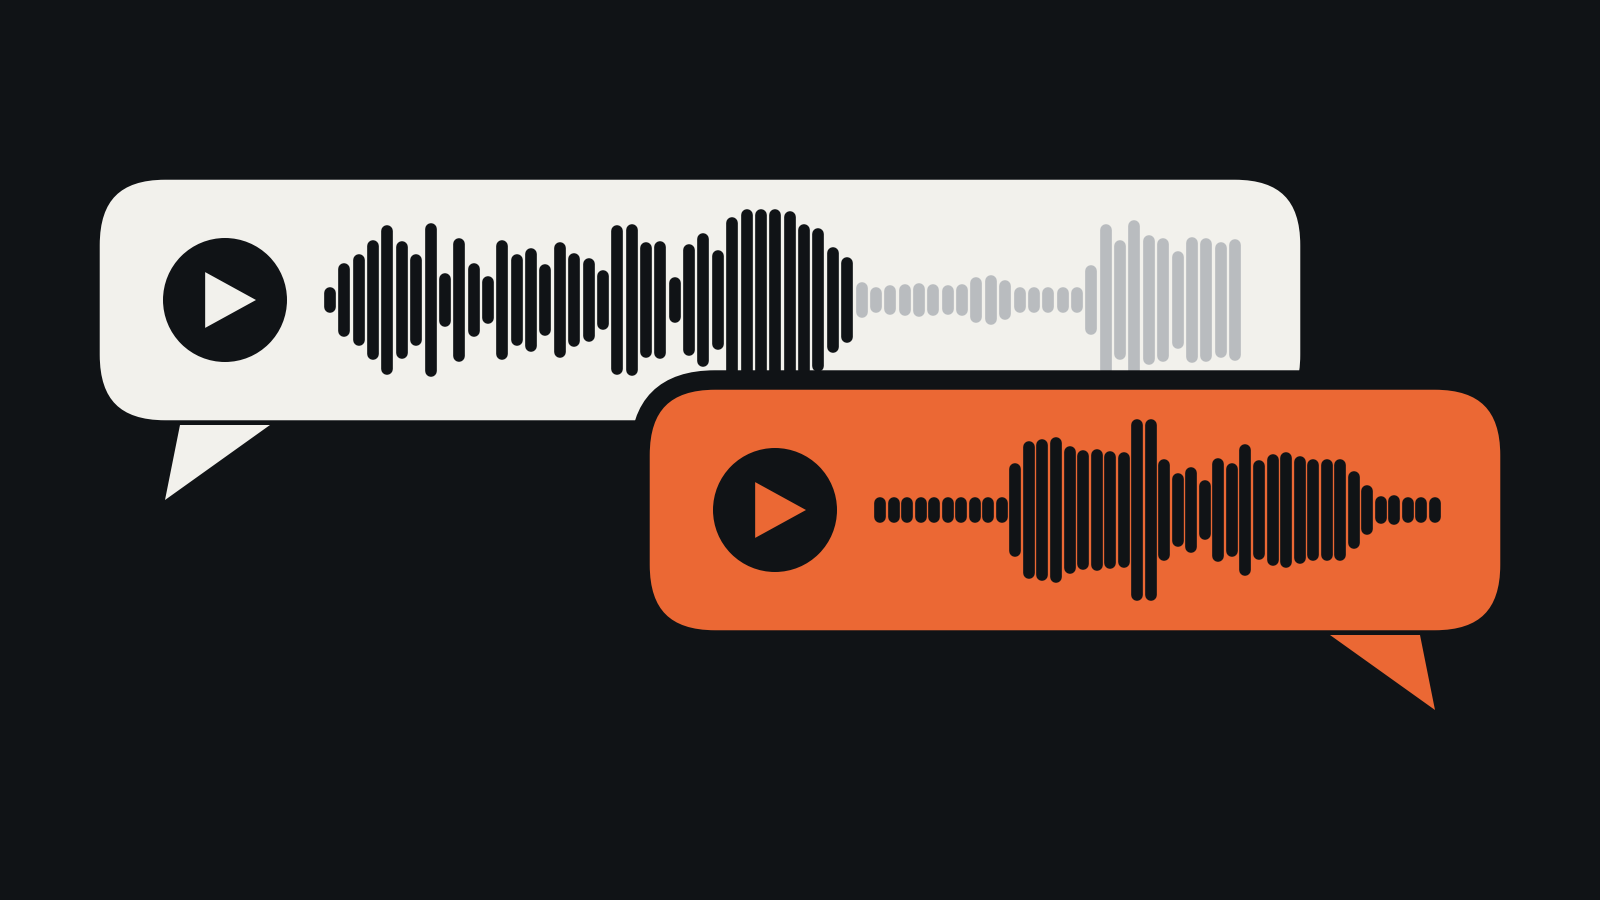
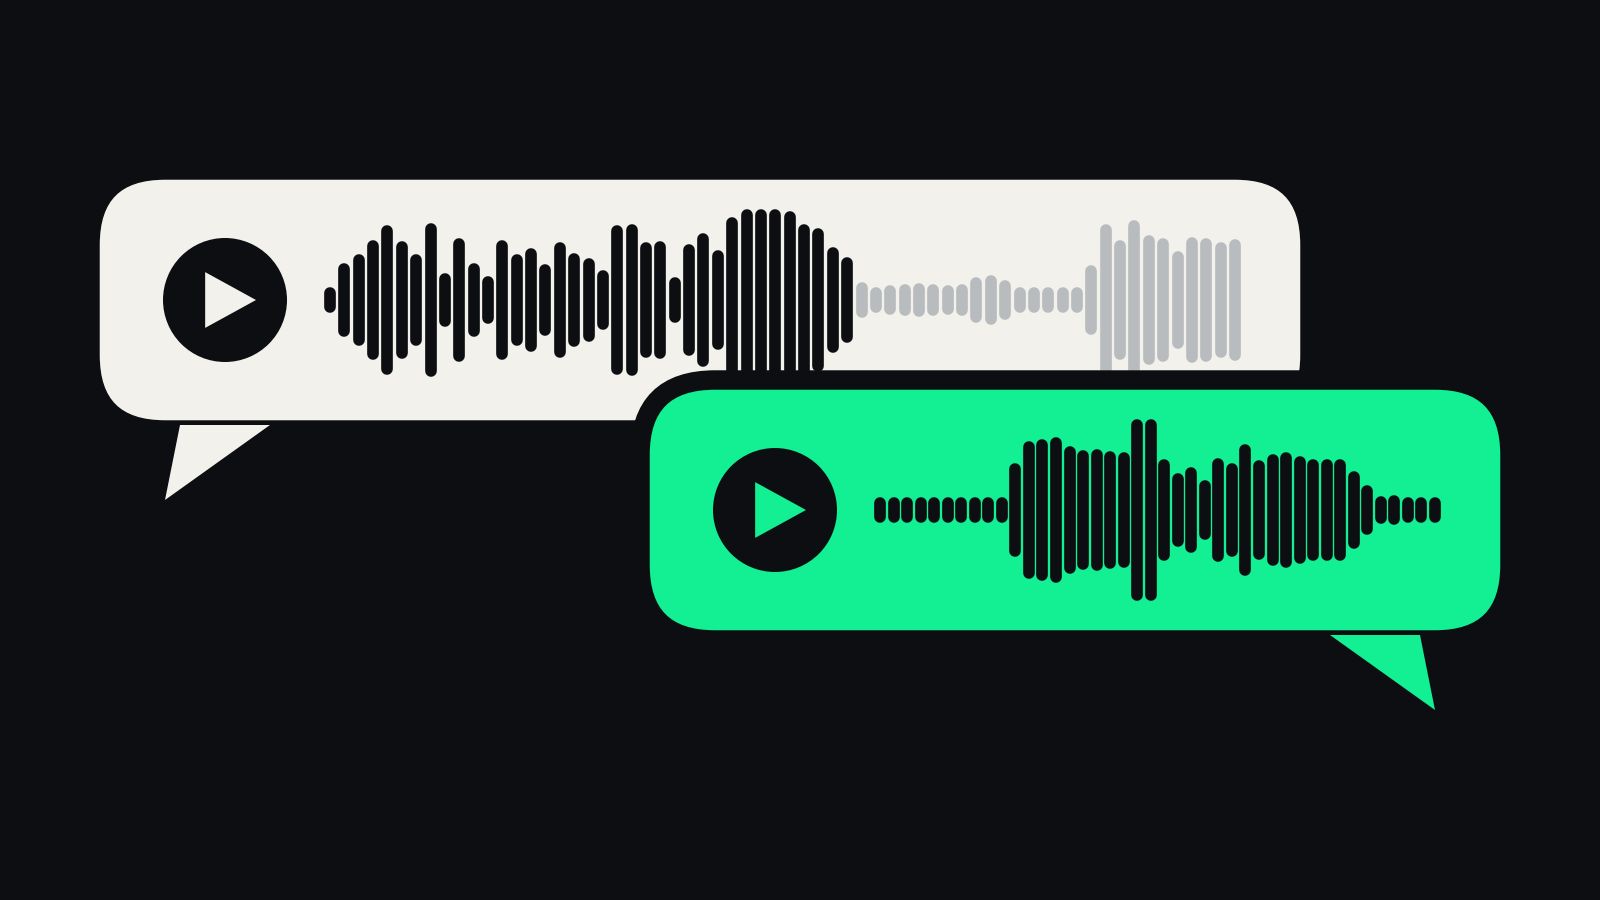
Cover: green agent bubble

Changed region(s): [[0.4062, 0.4044, 0.9375, 0.7778]]

diff --git a/scripts/make_figures.py b/scripts/make_figures.py
@@ -333,7 +333,8 @@ def fig_cover():
         amp = np.array([np.sqrt(np.mean(seg[i:j] ** 2)) for i, j in zip(e[:-1], e[1:])])
         return np.maximum(np.clip(amp / np.percentile(amp, 97), 0, 1) ** 0.6, 0.08)
 
-    BG, FG, DIM, INKD = "#101316", "#f2f1ec", "#2a2f36", "#101316"
+    BG, FG, DIM, INKD = "#0d0e12", "#f2f1ec", "#2a2f36", "#0d0e12"
+    AGENT = "#13ef93"  # voice-AI green for the agent
     fig = plt.figure(figsize=(8, 4.5), facecolor=BG)
     ax = fig.add_axes([0, 0, 1, 1], facecolor=BG)
     ax.set_xlim(0, 16)
@@ -368,8 +369,8 @@ def fig_cover():
 
     # agent: replies on top of the caller, mid-sentence
     ax0, ay0, aw, ah = 6.4, 3.8, 8.7, 2.6
-    bubble(ax0, ay0, aw, ah, ORANGE, ax0 + aw - 0.9, -1, 5)
-    play(ax0 + 1.35, ay0 + ah / 2, 0.62, INKD, ORANGE, 6)
+    bubble(ax0, ay0, aw, ah, AGENT, ax0 + aw - 0.9, -1, 5)
+    play(ax0 + 1.35, ay0 + ah / 2, 0.62, INKD, AGENT, 6)
     amp2 = env(45.2, 47.8, 42)
     ax.add_collection(LineCollection(
         [[(u, ay0 + ah / 2 - 0.85 * v), (u, ay0 + ah / 2 + 0.85 * v)] for u, v in
